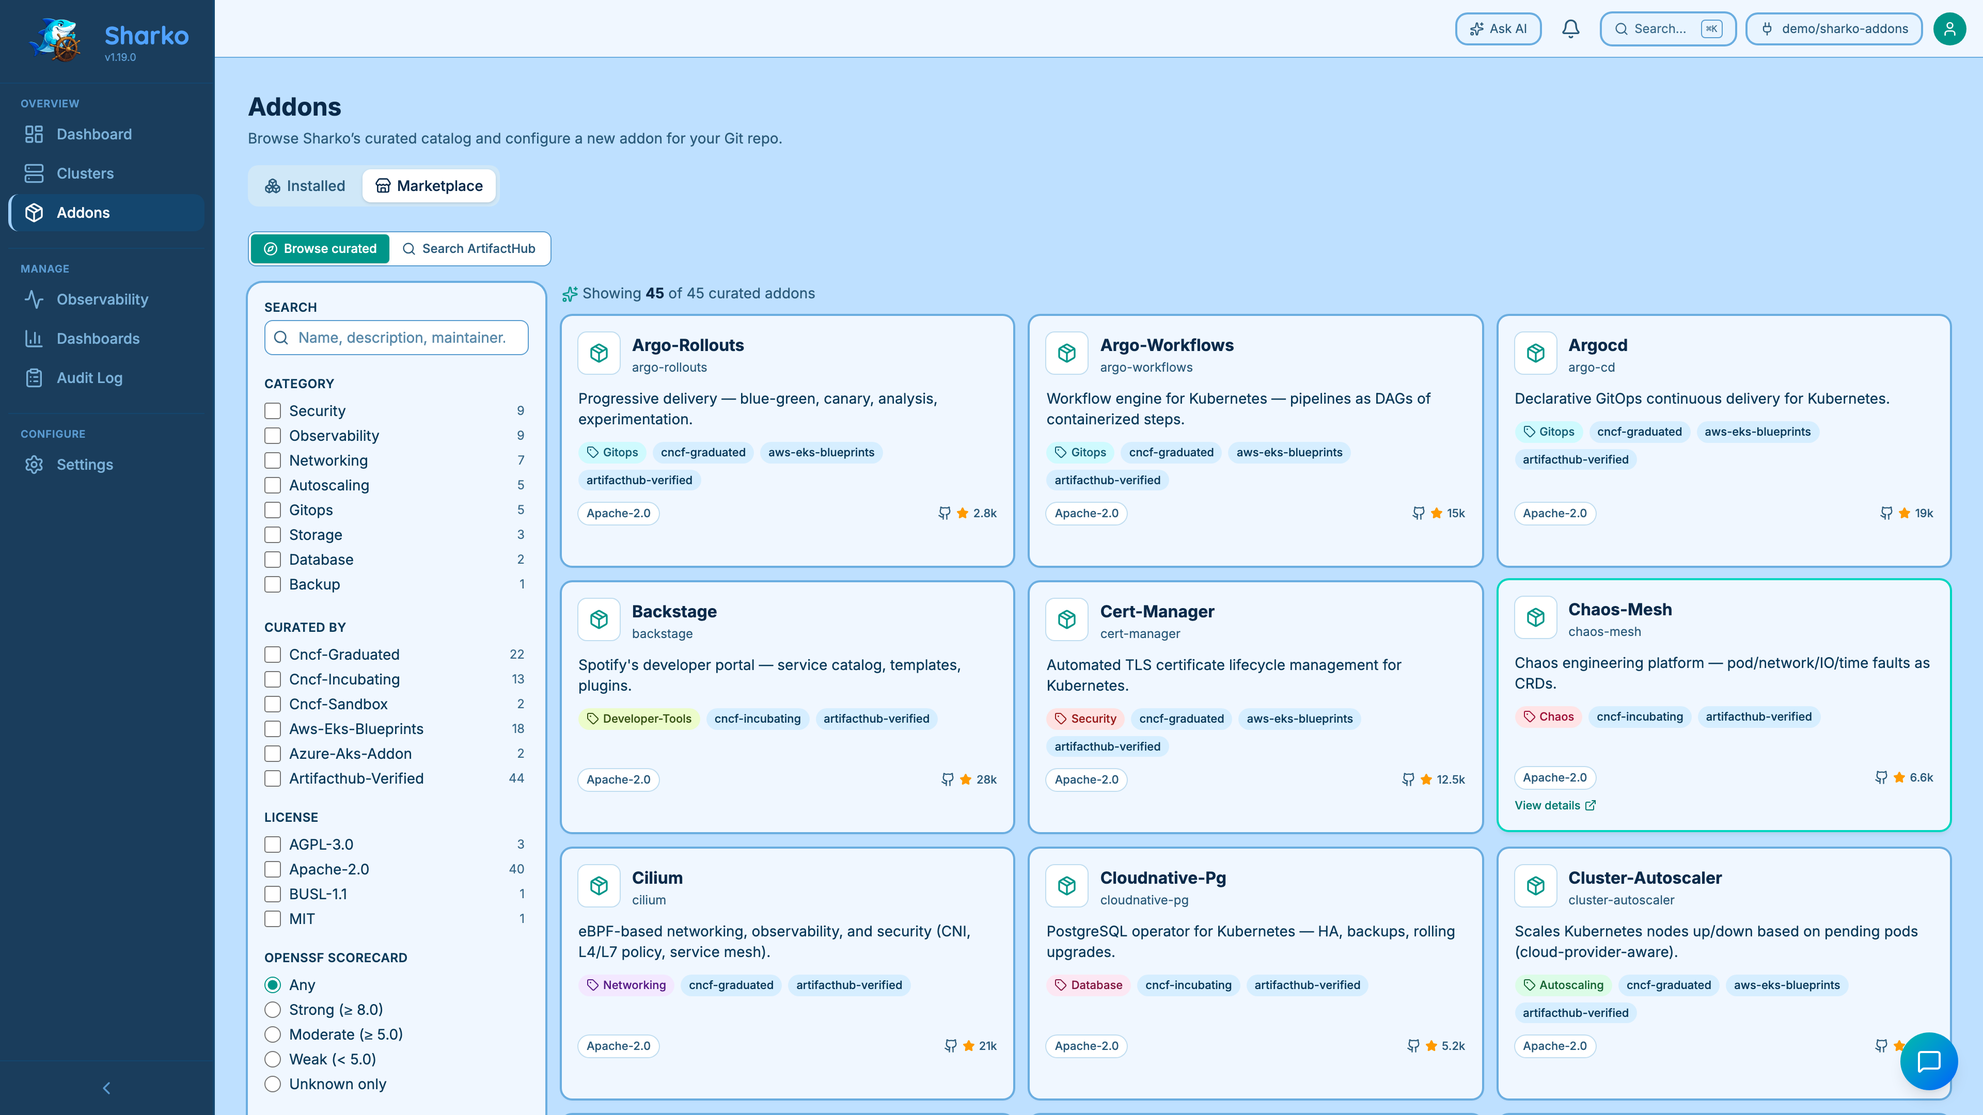
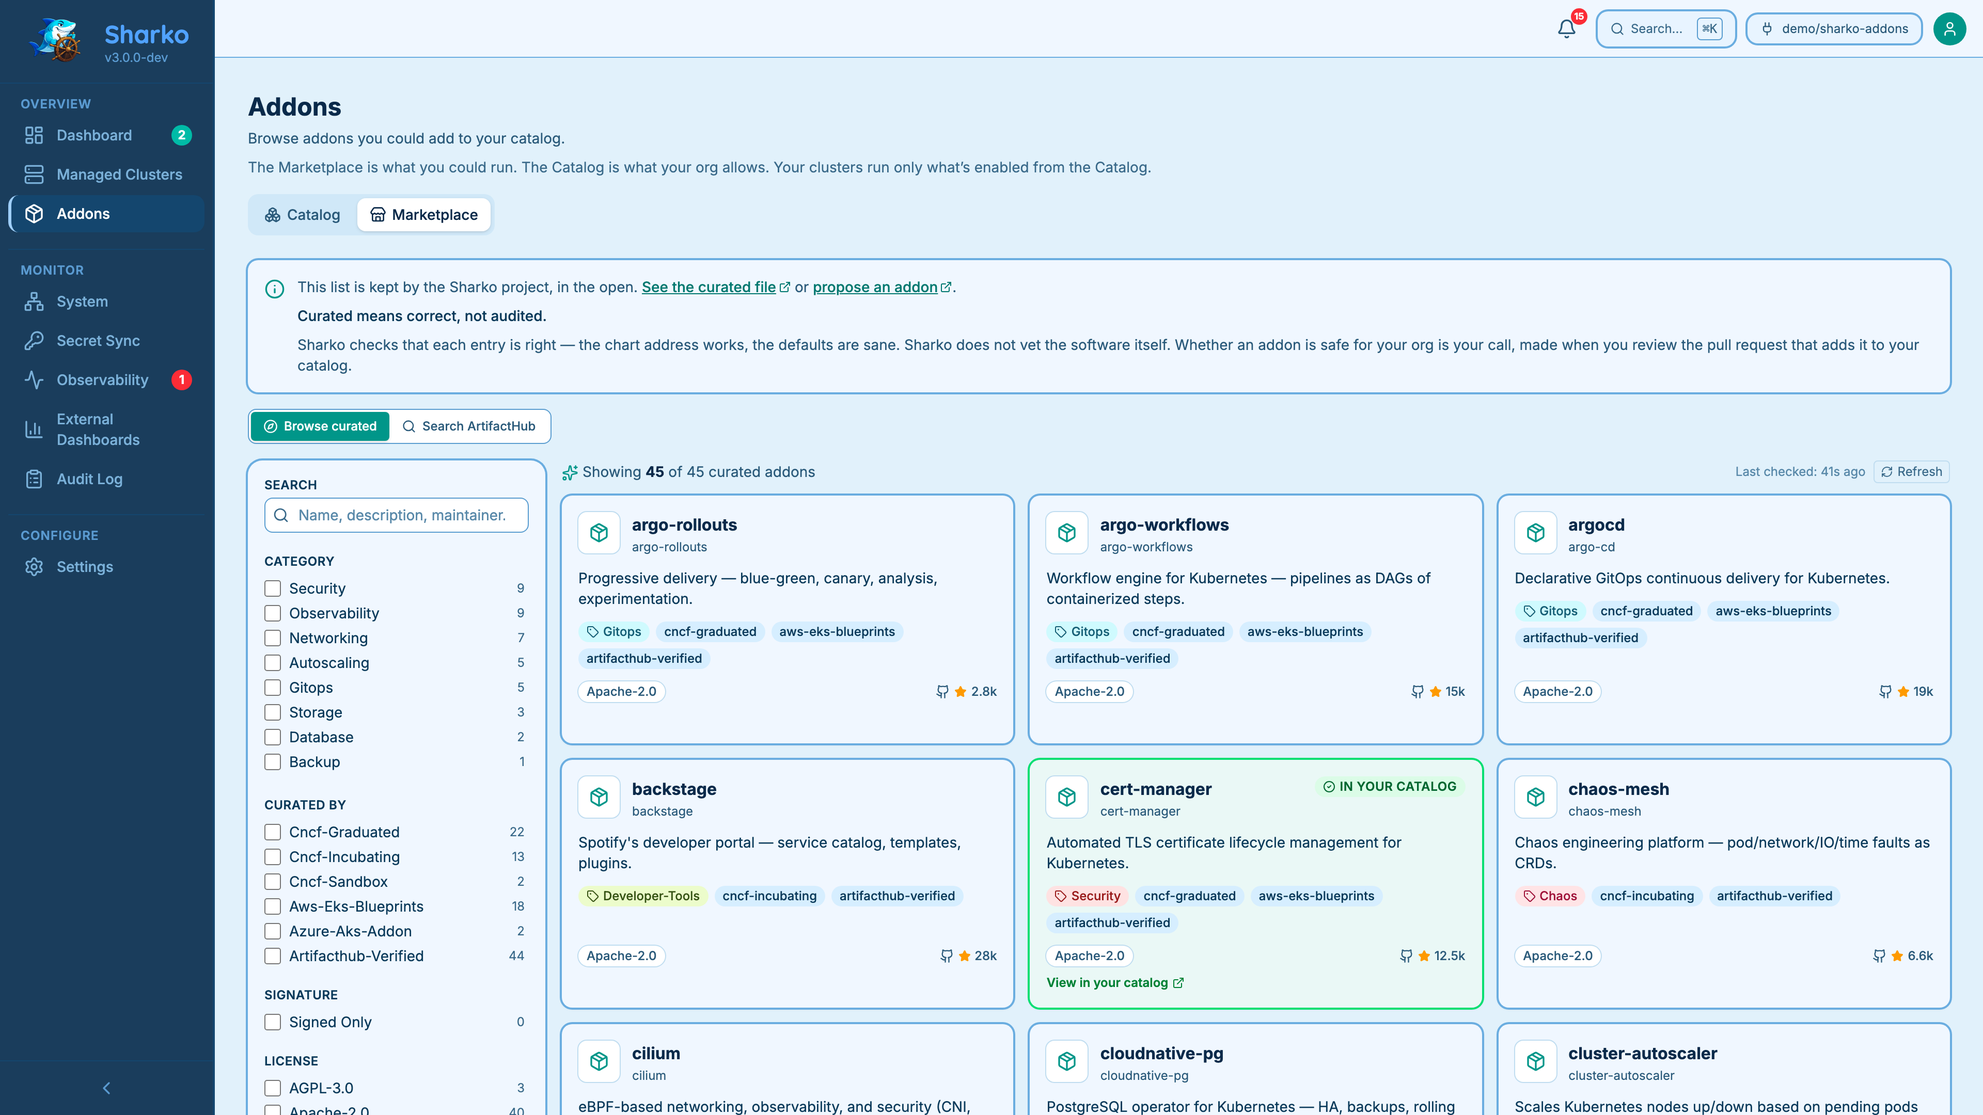
docs: quickstart walks the whole journey, removal page tells the v4 truth, claims match reality
Quickstart now takes a new user from install through registering a
cluster and deploying a first addon, with commands verified against
the actual v4 bootstrap code (sharko-engine.yaml, cluster-addons/,
values/ are all init writes; catalog.yaml and managed-clusters.yaml
are created on first use, not at init). Removing Sharko is rewritten
for the v4 repo layout instead of the old templates/bootstrap/ tree,
and cites the 2026-08-08 kill-Sharko re-verification. SECURITY.md's
supported-versions table now says v3.0.0/v4-in-development instead of
the stale v1.x/v2.0.0 framing. Every initial-admin password retrieval
command in the docs tree is now the same one (sharko-initial-admin-secret,
key "password"); the operator install guide's misleading "third window"
is replaced with an explicit note that it doesn't work, and the
credential-leak runbook's manual secret-patch rotation is replaced with
`sharko reset-admin`. Added .github/CODEOWNERS for catalog/** so the
existing docs claim about it is actually true. Kubernetes/ArgoCD
prerequisite claims now state what's actually verified (kind 1.31 in
CI, ArgoCD v3.2-v3.4 from the weekly matrix job) instead of an
unverified "1.27+". Screenshots regenerated from a live demo server
against the current v4 UI, replacing the stale v1.19 set that included
a visible error.

diff --git a/docs/site/getting-started/quickstart.md b/docs/site/getting-started/quickstart.md
@@ -6,7 +6,7 @@ Registering a cluster is an API call that tells ArgoCD about a new cluster and i
 
 ## Prerequisites
 
-- Kubernetes 1.27+ with ArgoCD installed
+- Kubernetes with ArgoCD installed (tested against 1.31 in CI — see [Installation prerequisites](installation.md#prerequisites) for the full range)
 - Helm 3.x
 
 ## 1. Install Sharko
@@ -43,24 +43,52 @@ The wizard appears automatically on first access.
 
 **Step 3 — ArgoCD connection:** Sharko auto-discovers the ArgoCD service in-cluster. Confirm the server URL and enter an ArgoCD account token. Optionally configure a secrets provider (AWS Secrets Manager or Kubernetes Secrets) for cluster credentials.
 
-**Step 4 — Initialize repository:** Sharko opens a pull request with the starting layout — `managed-clusters.yaml`, `catalog.yaml`, `sharko-engine.yaml`, and the empty `cluster-addons/` and `values/` folders, nothing else. Choose **auto-merge** to merge the PR immediately, or review it yourself in GitHub/Azure DevOps first.
+**Step 4 — Initialize repository:** Sharko opens a pull request with the starting layout — the empty `cluster-addons/` and `values/` folders, the engine pin `sharko-engine.yaml` (the one file that says which version of Sharko's engine chart runs), and a `README.md` explaining the layout. That's it: no `catalog.yaml` and no `managed-clusters.yaml` yet. Sharko writes each of those the first time it has something to put in them — `catalog.yaml` when you add your first addon, `managed-clusters.yaml` when you register your first cluster. Choose **auto-merge** to merge the PR immediately, or review it yourself in GitHub/Azure DevOps first.
 
 **Step 5 — Catalog:** Your Catalog starts **empty** — nothing runs in your org that nobody chose. This step offers two doors into it: pick addons from the Marketplace (common picks like cert-manager are highlighted, but nothing is pre-selected — you choose), or add your own in-house chart by filling in its location, version, and namespace. Pick as many as you like; Sharko opens **one** pull request for all of them, not one per addon. You can skip this step and add addons later — an empty Catalog is a normal, working state, not an error.
 
 After the wizard completes, the dashboard loads with clusters discovered from ArgoCD.
 
-## 5. Start Managing Clusters
+## 5. Register a Cluster
 
 From the dashboard, you will see:
 
 - **Managed clusters** — clusters registered and managed by Sharko
 - A hint line for **discovered clusters** — existing ArgoCD clusters not yet managed by Sharko, with a count
 
-Click the hint to open **Register New Cluster** pre-set to adopt one of them.
+The fastest first cluster is one **adopted** from that discovered list — a cluster ArgoCD already knows how to reach, so there is no credentials step to fill in. (Sharko's own credentials — a kubeconfig, a stored secret, or an EKS token — only matter later, for addons that push their own secrets to the cluster; a plain registration or adoption works without any of them.)
+
+**Via UI:** Click the discovered-clusters hint to open **Register New Cluster**, pre-set to adopt. Confirm the cluster and click **Adopt**.
+
+**Via CLI:**
+
+```bash
+sharko adopt my-cluster
+```
+
+Either path opens a pull request that creates `managed-clusters.yaml` (if this is your first cluster) with an entry for `my-cluster`, plus its values directory. Merge the PR — or tick auto-merge — and the cluster moves from "discovered" to **Managed Clusters** once Sharko confirms the connection.
+
+Registering a brand-new cluster ArgoCD doesn't already know works the same way, with `sharko add-cluster my-cluster --region us-east-1` in place of `adopt`; see [Managing Clusters](../user-guide/clusters.md) for the three ways to hand Sharko its credentials.
+
+## 6. Deploy Your First Addon
+
+Adding an addon to your Catalog and turning it on for a cluster are normally two separate changes — but the Marketplace can do both in one pull request.
+
+**Via UI:** Go to **Addons → Marketplace**, open an addon (e.g. cert-manager), and use the **Also enable on a cluster** dropdown to pick `my-cluster` before clicking **Add to catalog**.
+
+**Via CLI:**
+
+```bash
+sharko add-to-catalog cert-manager \
+  --from-marketplace --version 1.14.5 \
+  --enable-on my-cluster
+```
+
+This opens one pull request that adds `cert-manager` to `catalog.yaml` (created now, if this is your first catalog entry) and turns it on for `my-cluster` in `cluster-addons/my-cluster.yaml`. Merge the PR and ArgoCD deploys it — open the cluster's detail page and watch cert-manager go from syncing to healthy in the addon table.
 
 ## Next Steps
 
-- [Add addons to the catalog](../user-guide/addons.md)
+- [Add more addons to the catalog](../user-guide/addons.md)
 - [Configure ingress for production access](installation.md#access-the-ui)
 - [Enable the AI assistant](../operator/configuration.md#ai-provider)
 - [Set up API keys for CI/CD](../user-guide/connections.md#api-keys)

diff --git a/docs/site/operator/removing-sharko.md b/docs/site/operator/removing-sharko.md
@@ -11,14 +11,18 @@ answer to "what happens when I turn it off?" Here is Sharko's.
 ## Nothing stops when Sharko stops
 
 Everything ArgoCD deploys is rendered from **your** Git repository, not
-from Sharko. The root Application and AppProject, the ApplicationSets,
-your addons catalog, and your per-cluster values files all live in the
-repo Sharko initialized — the root app
-(`templates/bootstrap/root-app.yaml` in the Sharko source) sources
-`$values/configuration/bootstrap-config.yaml`,
-`addons-catalog.yaml`, and `managed-clusters.yaml` straight from that
-repo. Which addons run on which cluster is decided by labels on
-ArgoCD's cluster secrets.
+from Sharko's own storage. One ArgoCD Application — the engine pin,
+`sharko-engine.yaml` at the root of your repo — points at Sharko's engine
+chart, published once and versioned by that single file; the chart
+itself renders the AppProject and one ApplicationSet per addon in your
+catalog. Those ApplicationSets read straight from your repo:
+`catalog.yaml` (the addons your org approved), `managed-clusters.yaml`
+(which clusters, and how to reach them), `cluster-addons/<cluster>.yaml`
+(which of those addons run on that cluster, and at what version), and
+the `values/` tree (Helm values, fleet-wide and per-cluster). Which
+addons run where is decided by two things kept in step with each other:
+the `cluster-addons/<cluster>.yaml` file, and the matching label the
+reconciler keeps on ArgoCD's own cluster secret.
 
 Sharko has no database of its own. Delete the Sharko deployment and:
 
@@ -27,6 +31,10 @@ Sharko has no database of its own. Delete the Sharko deployment and:
   before.
 - Nothing is uninstalled, degraded, or orphaned at the moment Sharko
   goes away.
+
+> **Re-verified 2026-08-08** on `main@45503903`, including a git change
+> applied while Sharko was down — the claim above isn't just a design
+> intent, it's been tested against a real repo.
 
 ## What degrades over time
 
@@ -39,14 +47,16 @@ not immediately:
    place, but the next rotation or change in your secret store is no
    longer picked up and delivered. If you use External Secrets
    Operator instead of Sharko's delivery, this doesn't apply to you.
-2. **The `managed-clusters.yaml` → cluster-secret label sync, and
-   cluster-credential rotation.** The
-   [cluster reconciler](cluster-reconciler.md) keeps the labels on
-   ArgoCD's cluster secrets in step with `managed-clusters.yaml`, and
-   refreshes rotated cluster credentials. Current labels stay as they
-   are — deployments are unaffected — but editing the YAML no longer
+2. **Two label syncs, and cluster-credential rotation.** The
+   [cluster reconciler](cluster-reconciler.md) keeps two things in step
+   with git on a timer: which addons are switched on for a cluster (a
+   label read from `cluster-addons/<cluster>.yaml`) and the cluster's own
+   connection record (read from `managed-clusters.yaml`) — and it
+   refreshes rotated cluster credentials. Whatever labels and connection
+   details are live at the moment Sharko stops stay exactly as they are
+   — deployments are unaffected — but editing either file no longer
    changes anything, and rotated cluster credentials are no longer
-   refreshed.
+   picked up.
 
 You also lose the management surface itself: the UI, the REST API, the
 audit log, the upgrade advisor, and PR authoring. Your clusters don't
@@ -55,11 +65,11 @@ notice; the humans who used those do.
 ## The exit is standard ArgoCD, not a migration
 
 To keep operating without Sharko, you go back to what you did before
-it: hand-edit the labels on ArgoCD's cluster secrets to control which
-addons run where, and manage the catalog and values files in the repo
-directly. There is no export step, no data to convert, no proprietary
-state to unwind — your repo remains a fully self-describing ArgoCD
-setup, because that's what it was all along.
+it: hand-edit the addon-enablement labels on ArgoCD's cluster secrets to
+control which addons run where, and manage the catalog and values files
+in the repo directly. There is no export step, no data to convert, no
+proprietary state to unwind — your repo remains a fully self-describing
+ArgoCD setup, because that's what it was all along.
 
 ## Don't want Sharko owning connections in the first place?
 

diff --git a/docs/site/operator/installation.md b/docs/site/operator/installation.md
@@ -6,8 +6,8 @@ This guide is for platform engineers and cluster operators installing Sharko in 
 
 | Requirement | Notes |
 |-------------|-------|
-| Kubernetes 1.27+ | Any CNCF-conformant distribution |
-| ArgoCD | Must be installed and accessible from within the cluster |
+| Kubernetes | Any CNCF-conformant distribution. Sharko's e2e suite is tested against **1.31** in CI (kind's `kindest/node:v1.31.0`, the harness default). Sharko's Kubernetes client library (`client-go` v0.35.2) follows the standard Kubernetes version-skew policy, so nearby minor versions in both directions are expected to interoperate, but 1.31 is the only version CI actually exercises today. |
+| ArgoCD | Must be installed and accessible from within the cluster. Tested weekly against the three newest ArgoCD minor releases — the CI-verified range is currently **v3.2–v3.4** (last confirmed 2026-07-05 by the `argocd-matrix` workflow). The running app's **System** page shows the detected ArgoCD version against this same tested range. |
 | Helm 3.x | `helm version` to verify |
 | GitHub PAT or Azure DevOps PAT | For GitOps write operations |
 | (Optional) AWS IAM role | If using AWS Secrets Manager as the credentials provider |
@@ -76,7 +76,7 @@ Sharko ships with a single bootstrap `admin` user. There are three ways to set t
 
 ### 1. Auto-generated (default)
 
-If you set neither `bootstrapAdmin.password` nor `bootstrapAdmin.existingSecret.name`, Sharko generates a random 16-character password on first install. There are then three ways to retrieve it:
+If you set neither `bootstrapAdmin.password` nor `bootstrapAdmin.existingSecret.name`, Sharko generates a random 16-character password on first install. There are then two ways to retrieve it:
 
 #### (a) Dedicated `sharko-initial-admin-secret` (recommended for production)
 
@@ -125,18 +125,18 @@ This is the only time this credential will be shown. Store it securely.
 
 After logging, Sharko removes the marker from the Sharko Secret so the credential is never re-emitted on subsequent restarts. **Store the value somewhere durable immediately** (a password manager, your secrets vault).
 
-#### (c) Sharko Secret marker (only works before first restart)
-
-You can also retrieve the value directly from the Sharko Secret while the `admin.initialPassword` key is still present (i.e. before the first successful pod start):
-
-```bash
-kubectl get secret sharko -n sharko \
-  -o jsonpath='{.data.admin\.initialPassword}' | base64 -d
-```
+!!! note "There is no third window"
+    Earlier Sharko versions could be queried directly for the password
+    while it briefly sat on the release Secret's `admin.initialPassword`
+    key (`kubectl get secret sharko -o jsonpath='{.data.admin\.initialPassword}'`).
+    That key is deleted in the same startup step that logs the password
+    and writes the dedicated secret, so by the time you could run the
+    command it already returns empty — don't rely on it. Use (a) or (b)
+    above.
 
 #### Recovery path
 
-If you missed all three windows above (no dedicated secret because you opted out, log scrolled off, marker already deleted), run `kubectl exec -n sharko deployment/sharko -- sharko reset-admin` to mint a fresh random password. The reset command also rotates `sharko-initial-admin-secret` to carry the new plaintext (or, in opt-out mode, deletes any stale copy). The new password is also printed to stdout so you can capture it in the same step.
+If you missed both windows above (no dedicated secret because you opted out, log scrolled off), run `kubectl exec -n sharko deployment/sharko -- sharko reset-admin` to mint a fresh random password. The reset command also rotates `sharko-initial-admin-secret` to carry the new plaintext (or, in opt-out mode, deletes any stale copy). The new password is also printed to stdout so you can capture it in the same step.
 
 ### 2. Operator-supplied inline (`bootstrapAdmin.password`)
 

diff --git a/docs/site/operator/credential-leak-in-logs.md b/docs/site/operator/credential-leak-in-logs.md
@@ -238,22 +238,18 @@ exposed credential second, purge logs third.
 1. **Rotate the leaked credential immediately.** Whatever credential
    was exposed, treat as compromised. Depending on what leaked:
 
-   - **Admin password** — rotate via the bootstrap procedure. Generate
-     a new admin Secret, restart Sharko:
+   - **Admin password** — rotate it directly:
      ```sh
-     # Get current admin secret:
-     kubectl -n <sharko-ns> get secret <sharko-release> \
-       -o jsonpath='{.data.admin\.initialPassword}' | base64 -d
-     # Generate a new password and patch the secret:
-     NEW_PW=$(openssl rand -base64 32)
-     kubectl -n <sharko-ns> patch secret <sharko-release> \
-       --type='json' \
-       -p="[{\"op\":\"replace\",\"path\":\"/data/admin.initialPassword\",\"value\":\"$(echo -n "$NEW_PW" | base64)\"}]"
-     # Restart so the bootstrap path re-runs:
-     kubectl -n <sharko-ns> rollout restart deployment/sharko
+     kubectl exec -n <sharko-ns> deployment/sharko -- sharko reset-admin
      ```
-     Then change the admin user's password via the UI (the rotated
-     "initial" secret is the bootstrap fallback only).
+     This mints a fresh random password, prints it to stdout, and
+     rotates the `sharko-initial-admin-secret` Secret to carry the new
+     plaintext (retrieve it any time afterward with
+     `kubectl get secret sharko-initial-admin-secret -n <sharko-ns>
+     -o jsonpath='{.data.password}' | base64 -d`). No manual secret
+     patch or restart needed — see
+     [Initial Credentials](installation.md#initial-credentials) for the
+     full retrieval and rotation model.
 
    - **ArgoCD account token** — rotate via `argocd account
      generate-token --account sharko`; update the Sharko secret.

diff --git a/SECURITY.md b/SECURITY.md
@@ -92,18 +92,21 @@ Out of scope:
 
 ## Supported Versions
 
-Sharko is currently **pre-release** (`v1.x`). The first production
-release will be `v2.0.0` (see
-[`.claude/team/product-manager.md`](.claude/team/product-manager.md)).
+The latest tagged release is `v3.0.0`. `v4` is under active development
+on `main` and has not shipped yet.
 
-| Version    | Supported for security fixes |
-| ---------- | ---------------------------- |
-| `v2.x`     | Not yet released             |
-| `v1.x` (current pre-release line) | Latest minor only — please upgrade to the most recent `v1.x` minor before reporting |
-| `v0.x` and earlier | No |
+| Version | Supported for security fixes |
+| ------- | ----------------------------- |
+| `v3.0.x` (current release) | Yes |
+| `v4` (in development on `main`, unreleased) | Fixes land on `main` as part of normal development and ship in the next tagged release — there's no separate backport, because nothing has shipped yet |
+| `v2.x` and earlier | No — please upgrade to `v3.0.0` before reporting |
 
-Once `v2.0.0` ships, this table will be updated to follow the standard
-CNCF support window: latest minor and the immediately preceding minor.
+Sharko supports only the latest minor line: a security fix lands on
+`main` and ships in the next release rather than being backported to
+older tags. Once the project has shipped more than one minor release in
+a line, this table will be updated to also name the immediately
+preceding minor as supported, matching the standard CNCF support
+window.
 
 ## Security-Sensitive Code Paths
 

diff --git a/docs/user-guide.md b/docs/user-guide.md
@@ -8,7 +8,7 @@ This guide covers installing Sharko, configuring it, and using the CLI and dashb
 
 ### Prerequisites
 
-- A Kubernetes cluster (1.27+) with ArgoCD installed
+- A Kubernetes cluster with ArgoCD installed (Sharko's e2e suite is tested against 1.31 in CI — see [Installation prerequisites](site/operator/installation.md#prerequisites) for the full range)
 - Helm 3.x
 - A GitHub Personal Access Token (PAT) with repo access
 
@@ -52,8 +52,8 @@ The Sharko server should be running and accessible on port 80 (ClusterIP by defa
 On first install, Sharko creates an admin account with a random password. Retrieve it:
 
 ```bash
-kubectl get secret sharko -n sharko \
-  -o jsonpath='{.data.admin\.initialPassword}' | base64 -d
+kubectl get secret sharko-initial-admin-secret -n sharko \
+  -o jsonpath='{.data.password}' | base64 -d
 ```
 
 Then log in via the CLI:

diff --git a/.claude/team/k8s-expert.md b/.claude/team/k8s-expert.md
@@ -164,7 +164,7 @@ Reference docs:
 - 12 templates, 24 top-level value keys (will grow with v1.0.0 phases)
 - Connections: configured via Settings UI → stored in encrypted K8s Secret (`sharko-connections`)
 - Auth: admin user with random password on first install
-  - Get password: `kubectl get secret <release> -n sharko -o jsonpath='{.data.admin\.initialPassword}' | base64 -d`
+  - Get password: `kubectl get secret sharko-initial-admin-secret -n sharko -o jsonpath='{.data.password}' | base64 -d`
 - RBAC: ClusterRole for reading ArgoCD resources (configurable namespace via `rbac.argocdNamespace`)
 - Optional Ollama sidecar (`ai.ollama.deploy: true`)
 - Dev mode: `config.devMode: true` enables env var fallback for credentials

diff --git a/docs/site/getting-started/installation.md b/docs/site/getting-started/installation.md
@@ -2,7 +2,7 @@
 
 ## Prerequisites
 
-- Kubernetes 1.27+ with **ArgoCD** installed and running
+- Kubernetes with **ArgoCD** installed and running (tested against **1.31** in CI — see [Operator prerequisites](../operator/installation.md#prerequisites) for the full Kubernetes and ArgoCD compatibility range)
 - **Helm 3.x** (`helm version` to verify)
 
 That's it. Connection credentials (Git token, ArgoCD token) are entered through the first-run wizard after install — not at Helm install time.

diff --git a/.claude/team/docs-writer.md b/.claude/team/docs-writer.md
@@ -204,8 +204,8 @@ GET    /metrics                        (Prometheus)
 
 ### Admin password retrieval
 ```bash
-kubectl get secret <release-name> -n sharko \
-  -o jsonpath='{.data.admin\.initialPassword}' | base64 -d
+kubectl get secret sharko-initial-admin-secret -n sharko \
+  -o jsonpath='{.data.password}' | base64 -d
 ```
 
 ## API Contract Maintenance
